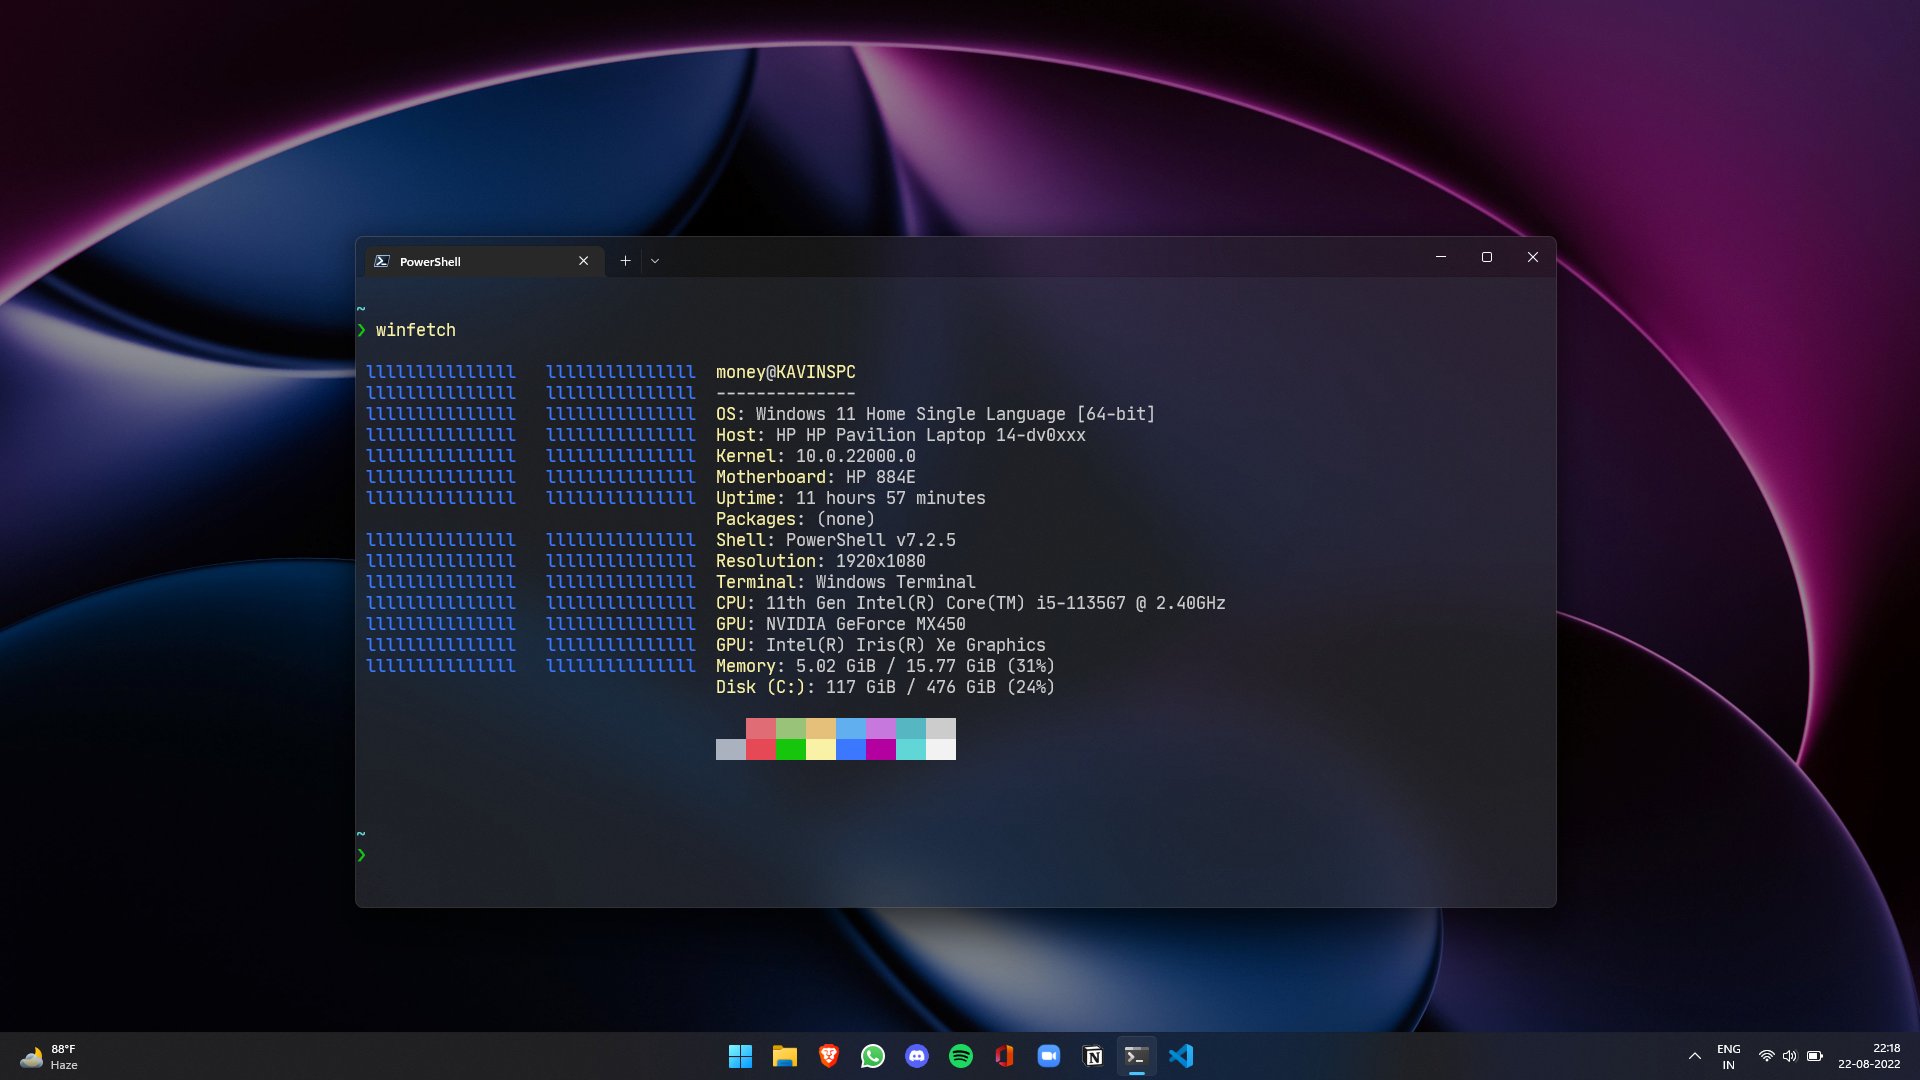
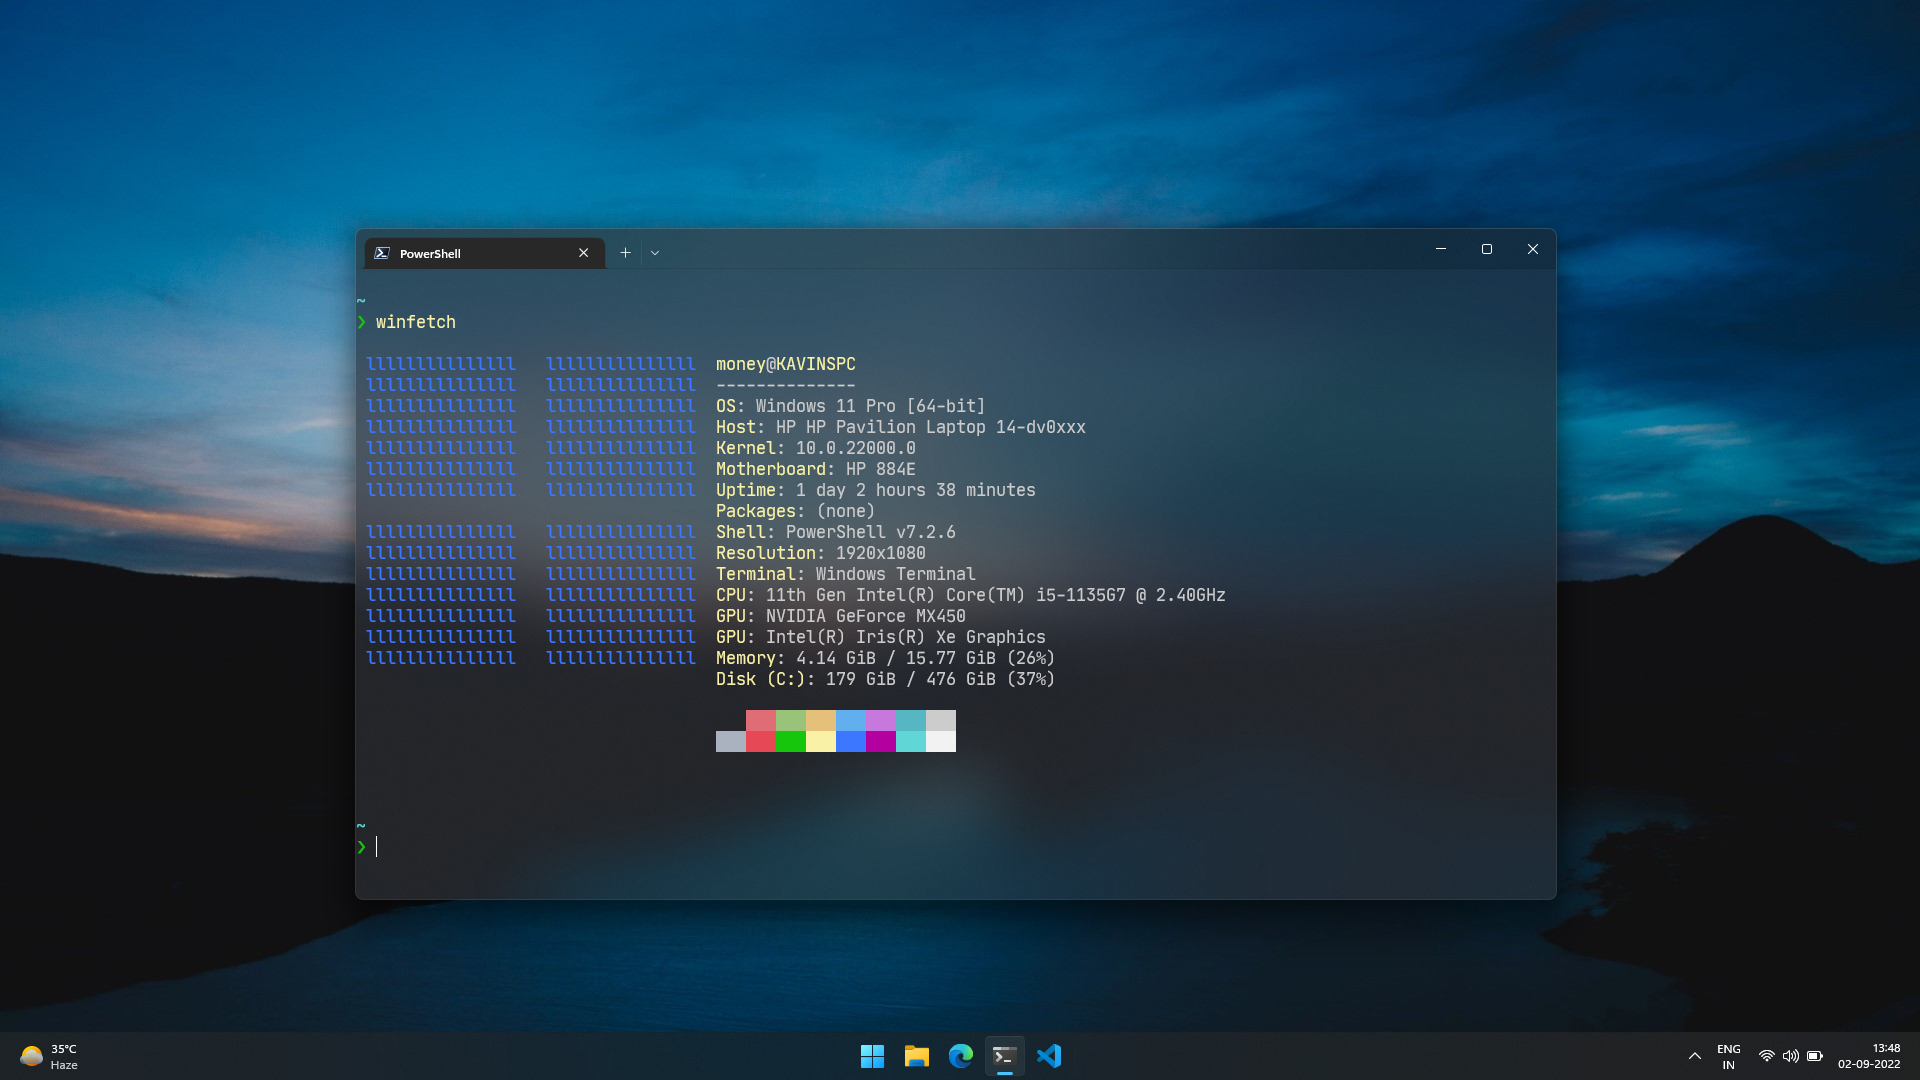
11/13/2022 11:23:18

diff --git a/README.md b/README.md
@@ -1,8 +1,16 @@
 # dotfiles
+
 ## specs
-* Intel i5-1135G7 28W, 16G DDR4 3200, 512GB NVME, Iris Xe + Nvidia MX450
-* Windows 11
+* i5-1135G7 28W
+* 16G DDR4-3200
+* 512GB NVME
+* Iris Xe + Nvidia MX450
+
+## os and setup
+* Windows 11 Pro
 * [Windows Terminal](https://github.com/microsoft/terminal) + [PowerShell Core](https://github.com/PowerShell/PowerShell) + [Starship](https://github.com/starship/starship)
+* Fedora 36
+* [gnome-terminal](https://gitlab.gnome.org/GNOME/gnome-terminal) + [zsh](https://ohmyz.sh/) + [p10k](https://github.com/romkatv/powerlevel10k)
 
 ## neovim
 * [nvim](https://github.com/neovim/neovim) 
@@ -11,10 +19,11 @@
 * Terminal with true color and ligature support
 * [nerdfonts](https://github.com/ryanoasis/nerd-fonts)
 * [vim-plug](https://github.com/junegunn/vim-plug)
-* [`CocInstall coc-snippets coc-java`](https://github.com/neoclide/coc.nvim/wiki/Using-coc-extensions#implemented-coc-extensions)
+* [`CocInstall coc-snippets coc-java coc-python coc-rls coc-tsserver`](https://github.com/neoclide/coc.nvim/wiki/Using-coc-extensions#implemented-coc-extensions)
 
 ## screenshots
 ![Linux](Pictures/Fedora.png)
-![Windows Light](Pictures/Windows.png)
-![Windows Dark](Pictures/windows_3.png)
-![Windows Darker](Pictures/windows_dark.png)
+![Windows Light](Pictures/windows_light.png)
+![Windows Dark](Pictures/windows_dark.png)
+![Windows Darker](Pictures/windows_darker.png)
+![Windows Darkest](Pictures/windows_darkest.png)
